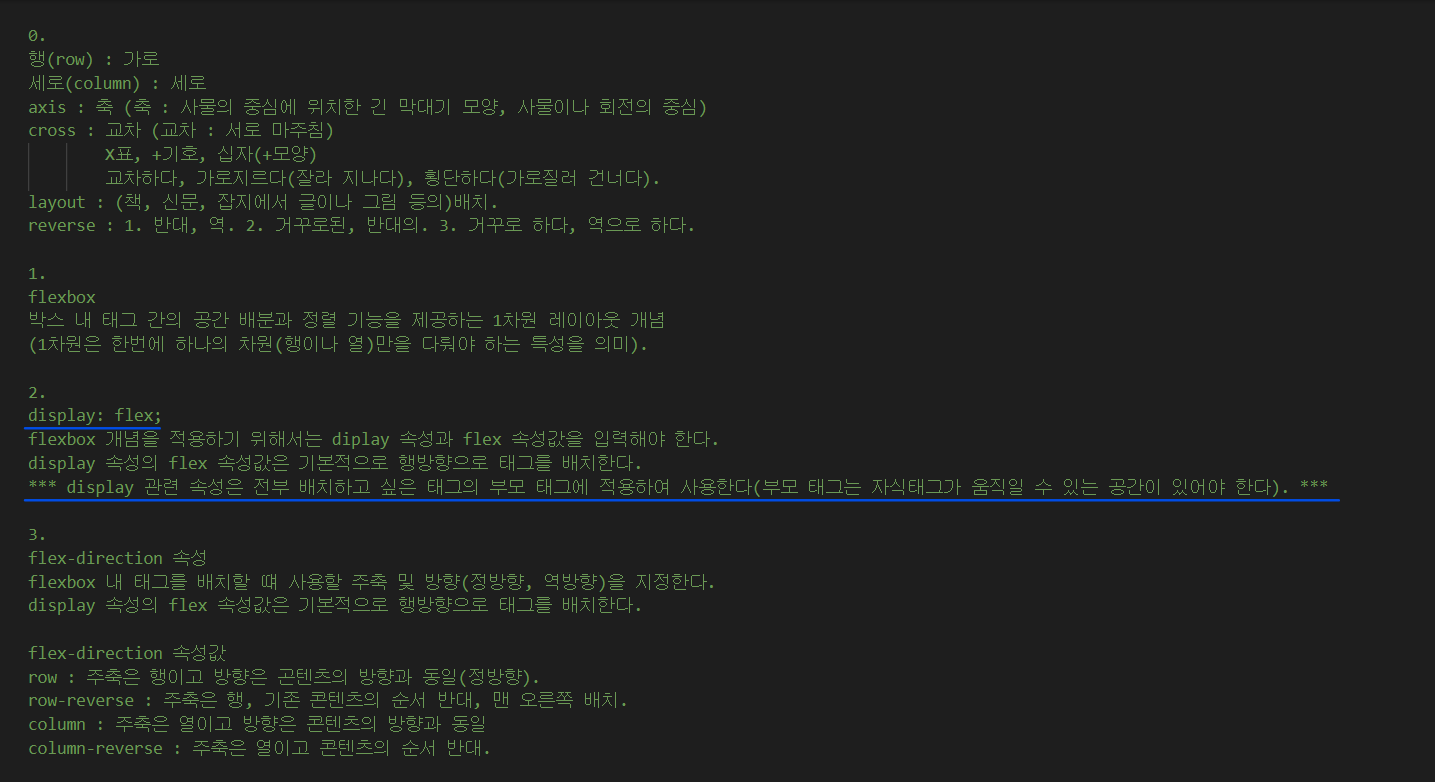
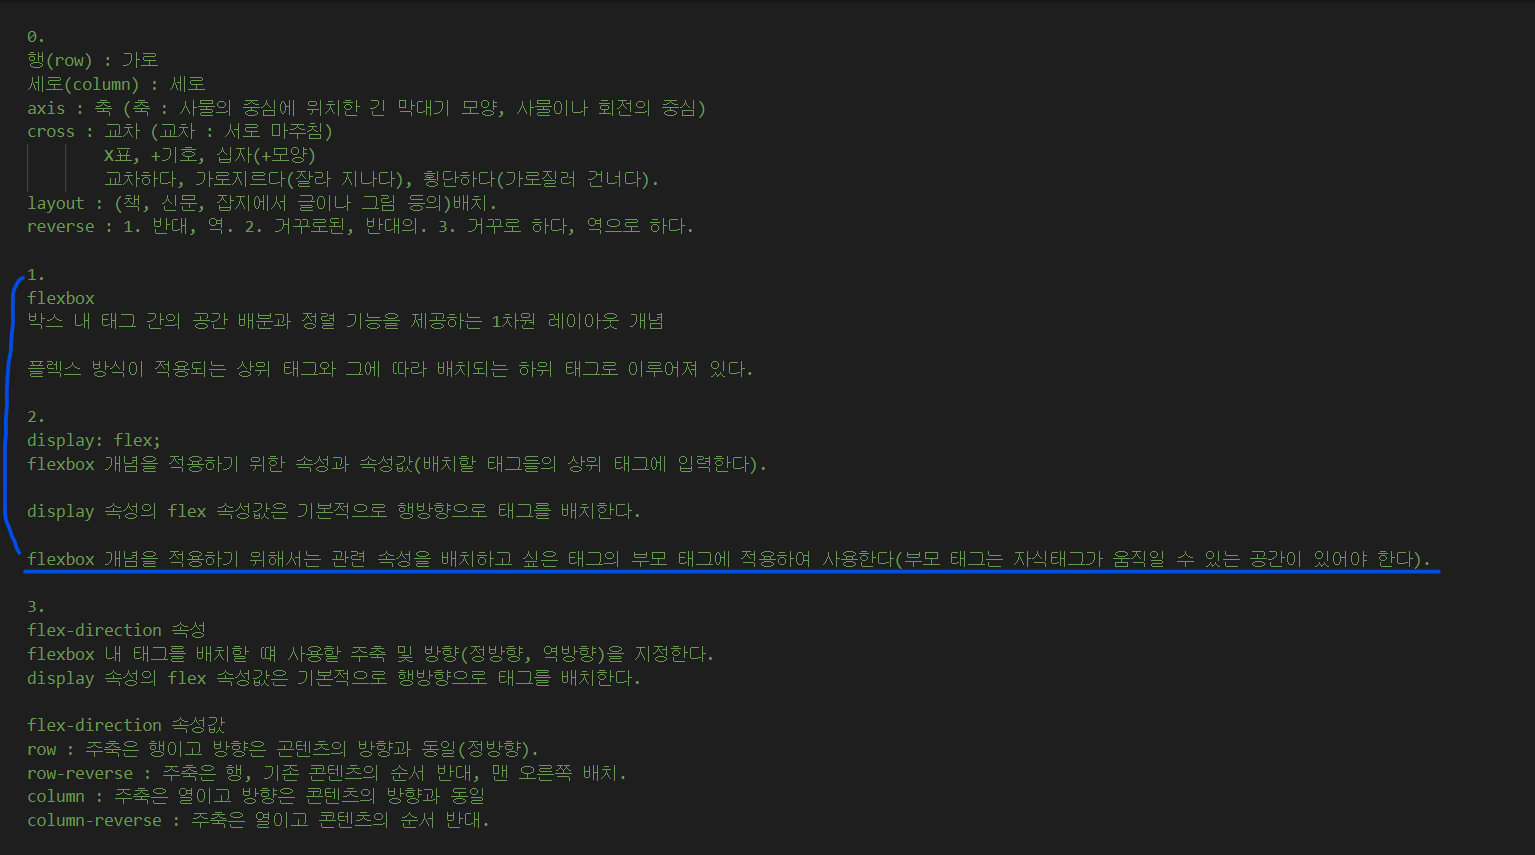
study

diff --git a/02 CSS/08 flexbox/00 flexbox 2.html b/02 CSS/08 flexbox/00 flexbox 2.html
@@ -34,7 +34,7 @@
 justify : 1. 행의 끝을 나란히 맞추다. 2. 정당화시키다, 타당함을 보여주다
 align : 1. 나란히 만들다, 일직선으로 하다. 2. ~에 맞춰 ~을 조절하다.
 
-*** display 관련 속성은 전부 배치하고 싶은 태그의 부모 태그에 적용하여 사용한다(부모 태그는 자식태그가 움직일 수 있는 공간이 있어야 한다). ***
+** flexbox 개념을 적용하기 위해서는 관련 속성을 배치하고 싶은 태그의 부모 태그에 적용하여 사용한다(부모 태그는 자식태그가 움직일 수 있는 공간이 있어야 한다). **
 
 1.
 justify-content 속성
@@ -68,3 +68,4 @@ wrap : flex-container 내부 태그들의 도합 크기가 flext-container들의
 wrap-reverse : wrap을 역으로 하겠다는 속성값.
 
 -->
+
